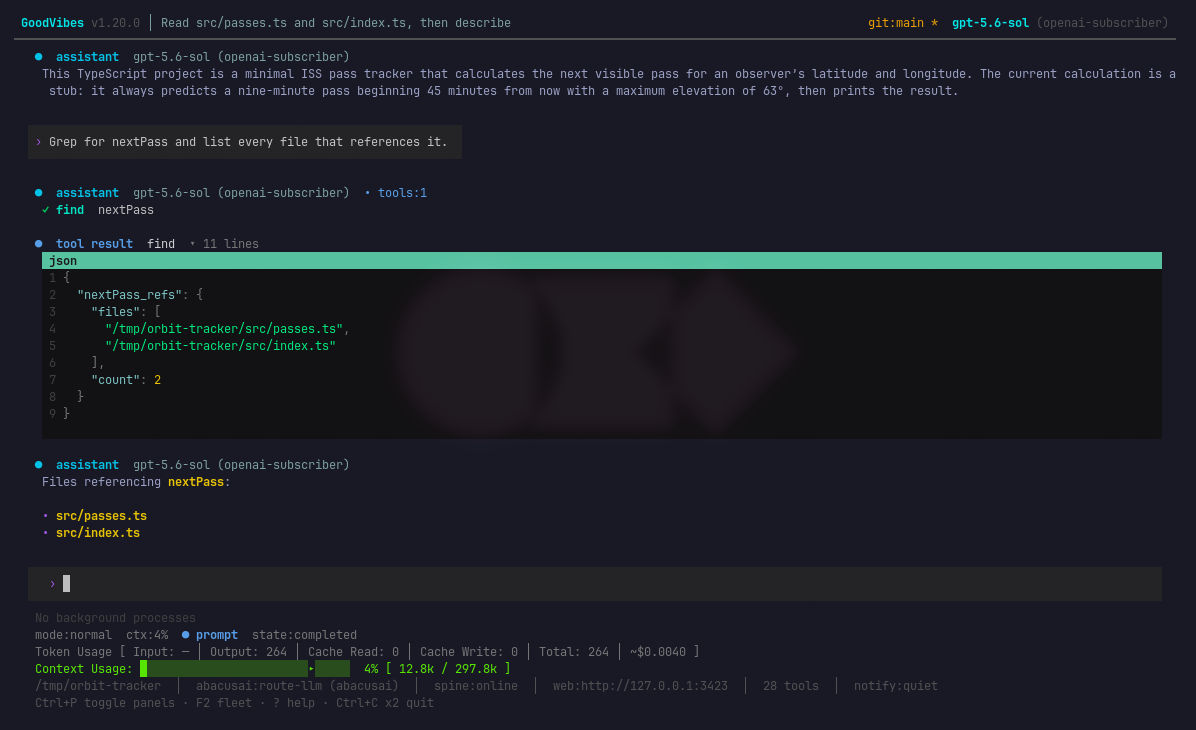
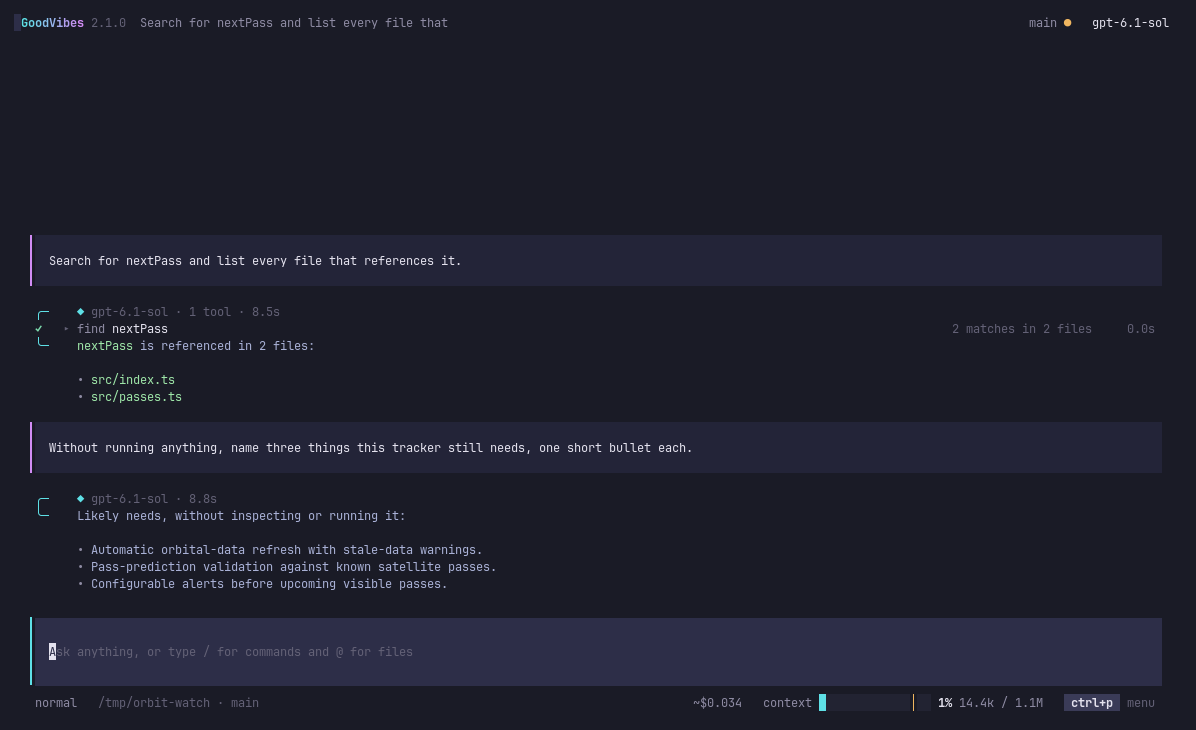
README screenshots show the 2.1.0 interface [skip ci]

diff --git a/README.md b/README.md
@@ -8,7 +8,7 @@ GoodVibes is a terminal console for coding and operations work with an AI model.
 
 It talks to many model providers (OpenAI, Anthropic, Gemini, Bedrock, Copilot, OpenRouter and other OpenAI-compatible gateways, plus local servers like Ollama and LM Studio that `/scan` finds on your machine and LAN), keeps its settings, sessions, and secrets on your own machine, and shows you the token count and running cost of every turn. Background work opens in large modals over the conversation: running agents, changed files and diffs, tokens and cost.
 
-<img src="docs/assets/splash.png" alt="GoodVibes starting up in a terminal: a glitch-art GOODVIBES wordmark in cyan-to-magenta gradient, the version and tagline beneath it, the active model and tool count, the working directory, a line offering to resume the last session, and a hint line reading Ctrl+P panels / ? help / F2 fleet. A status footer shows mode, token usage, context usage, and the daemon and web listener addresses." width="900">
+<img src="docs/assets/splash.png" alt="GoodVibes 2.1.0 starting up in a terminal. A thin header reads GoodVibes 2.1.0 on the left and the git branch main with a changes dot and the model gpt-6.1-sol on the right. Centered below is a block-letter GOODVIBES wordmark in a cyan-to-violet gradient between two rules, the tagline, the version v2.1.0 with terminal AI assistant, the active model openai:gpt-6.1-sol with 29 tools, the working directory /tmp/orbit-watch, and a hint line reading Ctrl+P commands / ? help / F2 agents. At the bottom is an empty input box reading Ask anything, or type / for commands and @ for files, and a status line showing the normal permission mode, the directory and branch, a cost of zero dollars, an empty context bar at 0 percent of 1.1M, and ctrl+p menu." width="900">
 
 ---
 
@@ -47,21 +47,21 @@ Deeper install notes are in [docs/getting-started.md](docs/getting-started.md): 
 
 ### The conversation loop
 
-<img src="docs/assets/conversation.png" alt="Two conversation turns in the terminal. The tail of an earlier answer describes the project as a minimal ISS pass tracker whose calculation is still a stub. Below it the user asks the model to grep for nextPass and list every file that references it; an assistant block shows one find tool call with a green checkmark, and its result is expanded as syntax-highlighted JSON with line numbers listing the two matching file paths and a count of 2. The final answer names src/passes.ts and src/index.ts as a bulleted list. The footer reads Token Usage: Input em dash, Output 264, Cache Read 0, Cache Write 0, Total 264, approximately 0.0040 dollars, above a green context usage bar at 4 percent." width="900">
+<img src="docs/assets/conversation.png" alt="Two conversation turns. The user asks the model to search for nextPass and list every file that references it; the reply shows one collapsed find nextPass tool row with a green checkmark and the summary 2 matches in 2 files, then the answer listing src/index.ts and src/passes.ts. In the second turn the user asks, without running anything, for three things the tracker still needs, and the model answers with three short bullets about orbital-data refresh, pass-prediction validation, and alerts before upcoming passes. Each user message sits in a shaded block and each reply carries a small header with the model name, tool count, and elapsed time. The status line below the input shows the normal mode, the directory /tmp/orbit-watch, an estimated cost of about 3 cents, and the context bar at 1 percent, 14.4k of 1.1M tokens." width="900">
 
 Tool calls stream inline as the model makes them, then their results fold into a collapsible group so a long working session stays readable. Expand any group to see what actually came back. Assistant messages render markdown, syntax-highlighted code, and inline diffs, and any block can be collapsed, bookmarked, copied, or saved to a file.
 
-The footer keeps an honest running total: fresh input tokens separated from cache reads, output tokens, the estimated cost so far, and how much of the context window is used. When a model's price is not in the catalog, the cost is reported as unavailable rather than guessed.
+The status line under the input keeps a running total: the estimated cost so far and how much of the context window is used. `/usage` breaks that down into fresh input tokens, cache reads, and output tokens. When a model's price is not in the catalog, the cost is reported as unavailable rather than guessed.
 
 ### Permissions and workspace trust
 
-<img src="docs/assets/workspace-trust.png" alt="A modal titled New workspace, choose a trust level, offering two options: Trust this workspace, full capability, all tools may run; and Keep restricted, read-only, explore safely, writes and commands are denied until trusted. Navigation hints read Up/Down Navigate, Enter Choose, Esc Close." width="820">
+<img src="docs/assets/workspace-trust.png" alt="A modal over the dimmed conversation, titled New workspace: choose a trust level, with an esc key on its right. Two options are listed: Trust this workspace, full capability, all tools may run, which is highlighted; and Keep restricted (read-only), explore safely, writes and commands are denied until trusted. The hint row reads up and down to move, Enter to choose. Behind it, the transcript shows the model starting exec mkdir -p build and waiting." width="820">
 
-The first time you open a directory, GoodVibes asks how much it is allowed to do there. Restricted is read-only. The model can look around, but writes and commands are refused until you trust the workspace.
+The first time the model wants to write or run something in a new directory, GoodVibes asks how much it is allowed to do there. Restricted is read-only. The model can look around, but writes and commands are refused until you trust the workspace.
 
-<img src="docs/assets/permission-prompt.png" alt="An execution approval prompt. A header reads EXECUTE, Shell Execution Approval, one more waiting. Fields list the requesting session, the tool exec, the full command mkdir -p build, the working directory, a Risk line reading HIGH write in red, the surface and radius, a summary, the decision class, the effects: process execution, filesystem mutation, possible network access, a reviewer checklist, and the raw tool arguments. Below, four numbered remember options scope an approval to this exact command, to every mkdir command, to every exec call in this project, or to the rest of the session in memory only. The action line reads: Y Allow once, 1-4 Allow and remember, N Deny, or type a reason to deny." width="900">
+<img src="docs/assets/permission-prompt.png" alt="A Shell Execution Approval modal with an amber top edge over the dimmed conversation. The header reads EXECUTE and the session id. A shaded row shows the command mkdir -p build, followed by a red high risk tag beside Execute shell command. Three choices sit in a row, Allow once highlighted, Allow for session, and Deny, with d details on the right. The hint row reads: arrows to choose, Enter to confirm, y allow once, 1-4 remember, n deny, or type a reason to deny. Behind the modal the transcript line reads Waiting for your approval, exec, mkdir -p build." width="900">
 
-After that, the default permission mode is `prompt`: writes, edits, shell commands, network fetches, agent spawns, and MCP calls each stop and ask. The prompt shows what will run, in which directory, its assessed risk, and what it can affect. You can allow it once, deny it (optionally typing a reason the model sees), or remember the decision at whichever scope fits: this exact command, this command shape, this tool for the whole project, or just for the rest of the session.
+After that, the default permission mode is `prompt`: writes, edits, shell commands, network fetches, agent spawns, and MCP calls each stop and ask. The prompt shows what will run and its assessed risk; `d` expands the details, including the working directory, what it can affect, and the raw arguments. You can allow it once, deny it (optionally typing a reason the model sees), or remember the decision at whichever scope fits: this exact command, this command shape, this tool for the whole project, or just for the rest of the session.
 
 Four other modes are available when prompting is not what you want:
 
@@ -74,7 +74,7 @@ Four other modes are available when prompting is not what you want:
 
 ### Models and providers
 
-<img src="docs/assets/model-picker.png" alt="A fullscreen model workspace. A left column lists routing targets: Main Chat set, Helper Model off, Tool LLM off, TTS LLM inherit, and Embeddings set. The right pane shows the selected target with its current model and a filter row for search, price, capability, grouping, and availability. Below, a table of models lists model key, display name, provider, context window, tier, and capability flags across 2030 catalogued entries, with a footer of list shortcuts." width="900">
+<img src="docs/assets/model-picker.png" alt="The Models modal opened with /model. Tabs across the top name the routing targets: Main Chat, selected, then Helper (off), Tool LLM (off), TTS, and Embeddings. Below is a search field and a count reading available only, 2,574 of 3,214. The left column lists models grouped by provider, here abacusai, with each model's context window; the right pane describes the highlighted model, its provider, the current Main Chat model openai:gpt-6.1-sol, its status configured, its context window and capability tags, and the filter shortcuts for price, capability, availability, benchmark sort, and grouping. The footer reads Enter use for Main Chat, tab next target, ctrl+f pin, ctrl+r refresh catalog, and 2550 more." width="900">
 
 Models come from a live catalog, so the picker lists far more than a hardcoded set, filterable by search, price, capability, and availability. Separate roles route independently: your main chat model, a cheaper helper model for grunt work, a tool model, a TTS model, and an embeddings model can each point somewhere different.
 
@@ -82,13 +82,13 @@ The `synthetic` provider groups the same model across every backend that serves 
 
 ### The Agents control room
 
-<img src="docs/assets/fleet-panel.png" alt="The Fleet panel open beside the conversation. It lists background work as rows with a kind, a name, elapsed time, token count, and cost: a CI watch poller and a runtime heartbeat watcher at 4 minutes 23 seconds each, and an idle code indexer. The detail region below shows the selected watcher's id, state idle, elapsed time, model, tokens, cost, a headline reading CI watch poller, healthy, an activity phase, and an approvals line. The action hints read j/k navigate, Enter attach, K kill, A archive finished, v archived, n host agent." width="900">
+<img src="docs/assets/fleet-panel.png" alt="The Agents modal opened with F2, headed 0 running, the session's own cost, and the fleet cost. The filter field holds the word healthy and shows 3 of 8 rows. Under a running heading the list shows three watchers, CI watch poller, Daemon heartbeat, and Runtime heartbeat, each marked healthy with its elapsed time. The detail pane on the right describes the selected CI watch poller: watcher id ci-watch-poller, state idle, elapsed time, model unknown, tokens not applicable, cost unpriced, the headline CI watch poller, healthy, its activity phase, and approvals. The hint row reads Enter open full screen, s steer, ctrl+x stop, n new agent, v archive, a archive one, f follow." width="900">
 
-Work that is not conversation opens in modals instead of scrolling past in the transcript. Agents, reached with `F2`, is the live control room for agents, WRFC chains, workstreams, watchers, scheduled jobs and hosted sessions: what is running, for how long, at what token cost, and what it is waiting on. You can open a running agent to watch its live tail or steer it, back out with `Esc` without stopping it, stop it with `Ctrl+X` (it asks first), pause and resume, and archive finished work. Usage (`/usage`) shows context pressure, tokens and cost; Changes (`/changes`) shows changed files with a tinted diff, a semantic summary, hunk staging and review comments; Notifications (`/notifications`) keeps the history. The screenshot above predates the modal redesign.
+Work that is not conversation opens in modals instead of scrolling past in the transcript. Agents, reached with `F2`, is the live control room for agents, WRFC chains, workstreams, watchers, scheduled jobs and hosted sessions: what is running, for how long, at what token cost, and what it is waiting on. You can open a running agent to watch its live tail or steer it, back out with `Esc` without stopping it, stop it with `Ctrl+X` (it asks first), pause and resume, and archive finished work. Usage (`/usage`) shows context pressure, tokens and cost; Changes (`/changes`) shows changed files with a tinted diff, a semantic summary, hunk staging and review comments; Notifications (`/notifications`) keeps the history.
 
 ### Everything else is a command
 
-<img src="docs/assets/help-overlay.png" alt="A searchable help overlay titled Help, Commands, with a search field and results grouped by category. Under Provider Accounts is the /accounts command with review, panel, show, routes, and repair subcommands and a one-line description. Under Fleet is /agents, described as hosting third-party coding agents as fleet rows over ACP. Under Experience is /approval, for reviewing action-specific approval classes. A line reads 147 below, and the hints read Up/Down Navigate, Enter Run, / Search, Esc Close." width="820">
+<img src="docs/assets/help-overlay.png" alt="The Help: Commands modal opened with the question-mark key, with a Type to filter field and a count of 160 items. Commands are grouped under category headings: provider accounts with /accounts and its review, panel, show, routes, and repair subcommands, highlighted; agents with /agents, which opens Agents and lists or hosts third-party coding agents over ACP; experience with /approval; platform access with /auth and its long list of subcommands; local runtime with /bookmarks; experience with /bootstrap; and branches with /branch. The hint row reads up and down to move, Enter to run, and 153 more." width="820">
 
 Press `?` for a searchable, categorized list of every slash command with its arguments and description. The same list is generated into [docs/commands-reference.md](docs/commands-reference.md).
 
@@ -109,7 +109,7 @@ Press `?` for a searchable, categorized list of every slash command with its arg
 | `Ctrl+X` | Inside an agent or process view: stop it (press twice to confirm) |
 | `Ctrl+C` | Clear input, cancel a running turn. Press twice to quit |
 
-Most bindings are customizable in `~/.goodvibes/tui/keybindings.json`, and `/keybindings` shows what is currently bound. Five keys are fixed and stay out of that file: `F2` (Fleet), `Shift+Tab` (permission-mode cycle), `Esc` (leave the current mode), `?` (help), and `@` (file picker). The full reference is in [docs/tools-and-commands.md](docs/tools-and-commands.md).
+Most bindings are customizable in `~/.goodvibes/tui/keybindings.json`, and `/keybindings` shows what is currently bound. Five keys are fixed and stay out of that file: `F2` (Agents), `Shift+Tab` (permission-mode cycle), `Esc` (leave the current mode), `?` (help), and `@` (file picker). The full reference is in [docs/tools-and-commands.md](docs/tools-and-commands.md).
 
 ---
 
